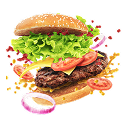
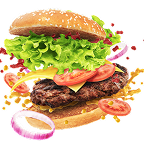
feat: add Our Popular Category section

diff --git a/index.html b/index.html
@@ -96,6 +96,104 @@
 
             </div>
         </section>
+        <section class="popular_category_container">
+            <h2 class="popular_category_section_title">Our Popular <span class="category_span">Category</span></h2>
+            <div class="image-text-blocks">
+                <article class="image-text-block">
+                    <img src="images/little_burger.png" alt="Burger" class="block-image">
+                    <p class="block-text">Burger</p>
+                </article>
+                <article class="image-text-block">
+                    <img src="images/pizza.png" alt="Pizza" class="block-image">
+                    <p class="block-text">Pizza</p>
+                </article>
+                <article class="image-text-block">
+                    <img src="images/sandwich_coffe_img.png" alt="sandwich" class="block-image">
+                    <p class="block-text">Sandwich</p>
+                </article>
+                <article class="image-text-block">
+                    <img src="images/christmas-dinner.png" alt="Asian Food" class="block-image">
+                    <p class="block-text">Asian Food</p>
+                </article>
+                <article class="image-text-block">
+                    <img src="images/set_menu.png" alt="Set Menu" class="block-image">
+                    <p class="block-text">Set Menu</p>
+                </article>
+            </div>
+            <div class="complex-blocks">
+                <article class="complex-block">
+                  <img src="images/big_burger_img1.png" alt="Buger" class="complex-image">
+                  <div class="icons">
+                    <img src="images/Icons=Star.png" alt="star_icon" class="icon">
+                    <img src="images/Icons=Star.png" alt="star_icon" class="icon">
+                    <img src="images/Icons=Star.png" alt="star_icon" class="icon">
+                    <img src="images/Icons=Star.png" alt="star_icon" class="icon">
+                    <img src="images/Icons=Star.png" alt="star_icon" class="icon">
+                  </div>
+                  <p class="complex-text">Cheeseburger With Salad</p>
+                  <p class="complex-price">$18.00</p>
+                  <button class="complex-button">Add to Cart</button>
+                </article>
+                <article class="complex-block">
+                    <img src="images/big_burger_img2.png" alt="Buger" class="complex-image">
+                    <div class="icons">
+                        <img src="images/Icons=Star.png" alt="star_icon" class="icon">
+                        <img src="images/Icons=Star.png" alt="star_icon" class="icon">
+                        <img src="images/Icons=Star.png" alt="star_icon" class="icon">
+                        <img src="images/Icons=Star.png" alt="star_icon" class="icon">
+                        <img src="images/Icons=Star.png" alt="star_icon" class="icon">
+                    </div>
+                    <p class="complex-text">Beef Burger</p>
+                    <p class="complex-price">$15.00</p>
+                    <button class="complex-button">Add to Cart</button>
+                  </article>
+                  <article class="complex-block">
+                    <img src="images/big_burger_img3.png" alt="Buger" class="complex-image">
+                    <div class="icons">
+                        <img src="images/Icons=Star.png" alt="star_icon" class="icon">
+                        <img src="images/Icons=Star.png" alt="star_icon" class="icon">
+                        <img src="images/Icons=Star.png" alt="star_icon" class="icon">
+                        <img src="images/Icons=Star.png" alt="star_icon" class="icon">
+                        <img src="images/Icons=Star.png" alt="star_icon" class="icon">
+                    </div>
+                    <p class="complex-text">Royal Cheeseburger</p>
+                    <p class="complex-price">$16.00</p>
+                    <button class="complex-button">Add to Cart</button>
+                  </article>
+                  <article class="complex-block">
+                    <img src="images/big_burger_img4.png" alt="Buger" class="complex-image">
+                    <div class="icons">
+                      <img src="images/Icons=Star.png" alt="star_icon" class="icon">
+                      <img src="images/Icons=Star.png" alt="star_icon" class="icon">
+                      <img src="images/Icons=Star.png" alt="star_icon" class="icon">
+                      <img src="images/Icons=Star.png" alt="star_icon" class="icon">
+                      <img src="images/Icons=Star.png" alt="star_icon" class="icon">
+                    </div>
+                    <p class="complex-text">Black Gamburger</p>
+                    <p class="complex-price">$14.00</p>
+                    <button class="complex-button">Add to Cart</button>
+                  </article>
+                  <article class="complex-block">
+                    <img src="images/big_burger_img5.png" alt="Buger" class="complex-image">
+                    <div class="icons">
+                        <img src="images/Icons=Star.png" alt="star_icon" class="icon">
+                        <img src="images/Icons=Star.png" alt="star_icon" class="icon">
+                        <img src="images/Icons=Star.png" alt="star_icon" class="icon">
+                        <img src="images/Icons=Star.png" alt="star_icon" class="icon">
+                        <img src="images/Icons=Star.png" alt="star_icon" class="icon">
+                    </div>
+                    <p class="complex-text">Chicken Burger</p>
+                    <p class="complex-price">$15.00</p>
+                    <button class="complex-button">Add to Cart</button>
+                  </article>
+            </div>
+            <article class="carousel">
+                <img class="carousel-arrow-left" src="images/up-arrow.png" alt="Previous">
+                <img class="carousel-arrow-items" src="images/Next.png" alt="Next">
+                <img class="carousel-arrow-right" src="images/up-arrow_clicked.png" alt="Next">
+            </article>
+
+        </section>
     </main>
 </body>
 </html>

diff --git a/css/main.css b/css/main.css
@@ -48,8 +48,8 @@ h1, h2, h3 {
   font-weight: 500; 
 }
 
-.html{
-  background: linear-gradient(114deg, rgba(239, 239, 239, 0.00) -2.01%, rgba(239, 239, 239, 0.20) 103.74%);
+.body{
+  background: linear-gradient(114deg, rgba(239, 222, 239, 0.00) -2.01%, rgba(222, 232, 239, 0.20) 103.74%);
   backdrop-filter: blur(388.5px);
 }
 
@@ -201,6 +201,7 @@ h1, h2, h3 {
 .main_section1{
   max-width: 76.9375rem;
   min-width: 76.9375rem;
+  height: 50rem;
   width: 100%;
   margin-left: 8.4375rem;
   margin-right: 4.6875rem;
@@ -504,6 +505,189 @@ text-transform: capitalize;
   width: 10px;
   height: 9px;
 }
+
+
+
+.popular_category_container {
+  
+  /*grid-template-rows: auto auto;*/ 
+  border: none;
+  max-width: 72.125rem;
+  margin-left: 8.9375rem;
+  margin-right: 8.9375rem;
+  margin-top: 85px;
+  display: grid;
+ 
+  
+  justify-content: stretch;
+  
+}
+
+.popular_category_section_title{
+  text-align: center; 
+  font-size: 2.25rem; 
+  font-style: normal;
+  font-weight: 500;
+  line-height: normal;
+  color: var(--Primary, #363853);
+  margin-left: 12px; 
+}
+.category_span{
+  color: var(--Secondary, #FF7A50);
+}
+
+.image-text-blocks {
+  
+  display: grid;
+  /*grid-template-rows: auto auto;*/
+  grid-template-columns: repeat(5, 1fr);
+  /*grid-template-rows: repeat(2, 1fr); */
+  justify-content: stretch;
+  
+  column-gap: 1.625rem;
+  margin-top: 2.4375rem;
+  
+}
+
+
+.image-text-block {
+  
+  width: 13.125rem;
+  height: 4.375rem;
+  display: flex;
+  justify-content: space-evenly;
+  align-items: center; 
+  border: 1px solid #ddd; 
+  border-radius: 0.5rem; 
+  background: #FFF;
+}
+
+.block-image {
+  width: 44px; 
+  height: 44px;
+  object-fit: cover;
+  
+}
+
+.block-text {
+  color: var(--Primary, #363853);
+  font-size: 20px;
+  font-style: normal;
+  line-height: normal;
+  
+}
+
+
+.complex-blocks {
+  display: grid;
+  grid-template-columns: repeat(5, 1fr);
+  justify-content: stretch;
+  column-gap: 1.625rem;
+  margin-top: 2.5rem;
+  
+  
+}
+
+
+.complex-block {
+  
+  width: 13.125rem;
+  height: 17.4375rem;
+  display: flex;
+  flex-direction: column; 
+  align-items: center;  
+ 
+  border: 1px solid #ddd; 
+  border-radius: 12px; 
+  background: #FFF;
+}
+
+.complex-image {
+  width: 144px; 
+  height: 144px;
+  object-fit: cover; 
+  margin-left: 33px;
+  margin-right: 33px;
+  margin-top: 0px;
+/*  padding-left: 33px;
+  padding-right: 33px;
+  padding-top: 0;*/
+}
+
+
+
+.icons {
+  display: flex;
+  justify-content: space-around;
+  gap: 3px; 
+  margin-left: 49px;
+  margin-right: 49px;
+  margin-top: -15px;
+/*  padding-left: 49px;
+  padding-right: 49px;
+  padding-top: 0;*/
+}
+
+.icon {
+  width: 20px; 
+  height: 20px;
+}
+
+.complex-text {
+  font-size: 15px;
+  color: var(--Primary, #363853);
+  /*margin-left: 49px;
+  margin-right: 49px;*/
+  margin-top: 10px;
+}
+
+.complex-price {
+  font-size: 15px;
+  color: var(--Primary, #363853);
+  font-weight: 500; 
+  margin-top: 10px; 
+}
+
+.complex-button {
+  width: 106px; 
+  height: 32px;
+  padding: 7px 13px;
+  font-size: 15px;
+  color: #ffffff;
+  border-radius: 2px;
+  background: var(--Secondary, #FF7A50);
+  border: none;
+  cursor: pointer;
+  margin-top: 10px; 
+}
+
+.complex-button:hover {
+  background-color: #0056b3; 
+}
+
+.carousel{
+  display: flex;
+  flex-direction: row;
+}
+.carousel-arrow-left{
+  width: 34px; 
+  height: 34px;
+  margin-left: 470px;
+  margin-top: 39px;
+}
+.carousel-arrow-items{
+  width: 90px; 
+  height: 12px;
+  margin-left: 27px;
+  margin-top: 50px;
+}
+.carousel-arrow-right{
+  width: 34px; 
+  height: 34px;
+  margin-left: 27px;
+  margin-top: 39px;
+}
+
 
 @media (min-width: 992px) and (max-width: 1199px) {
   .header {
